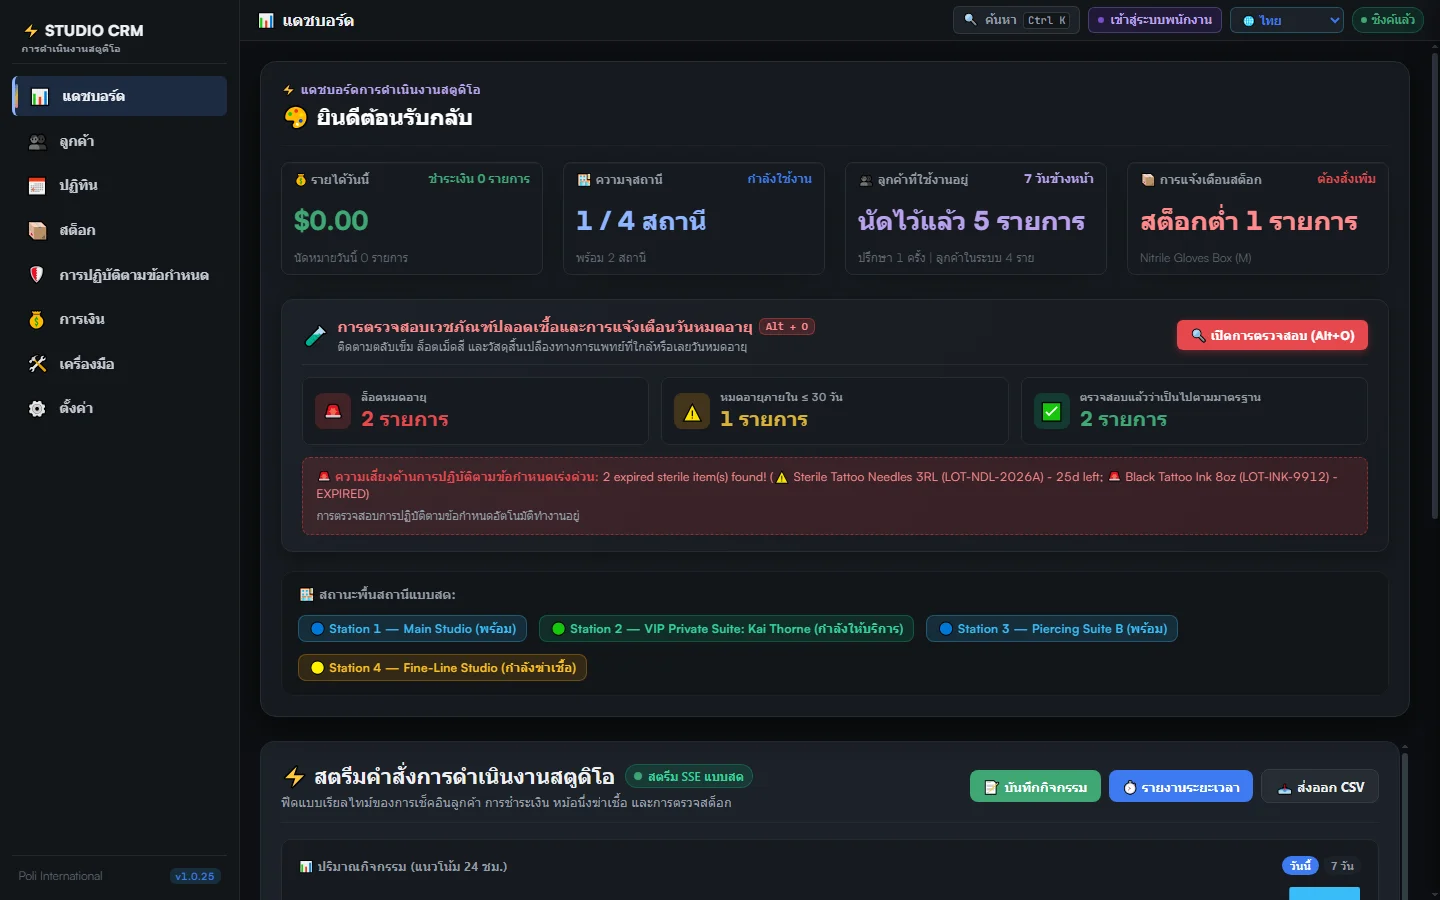
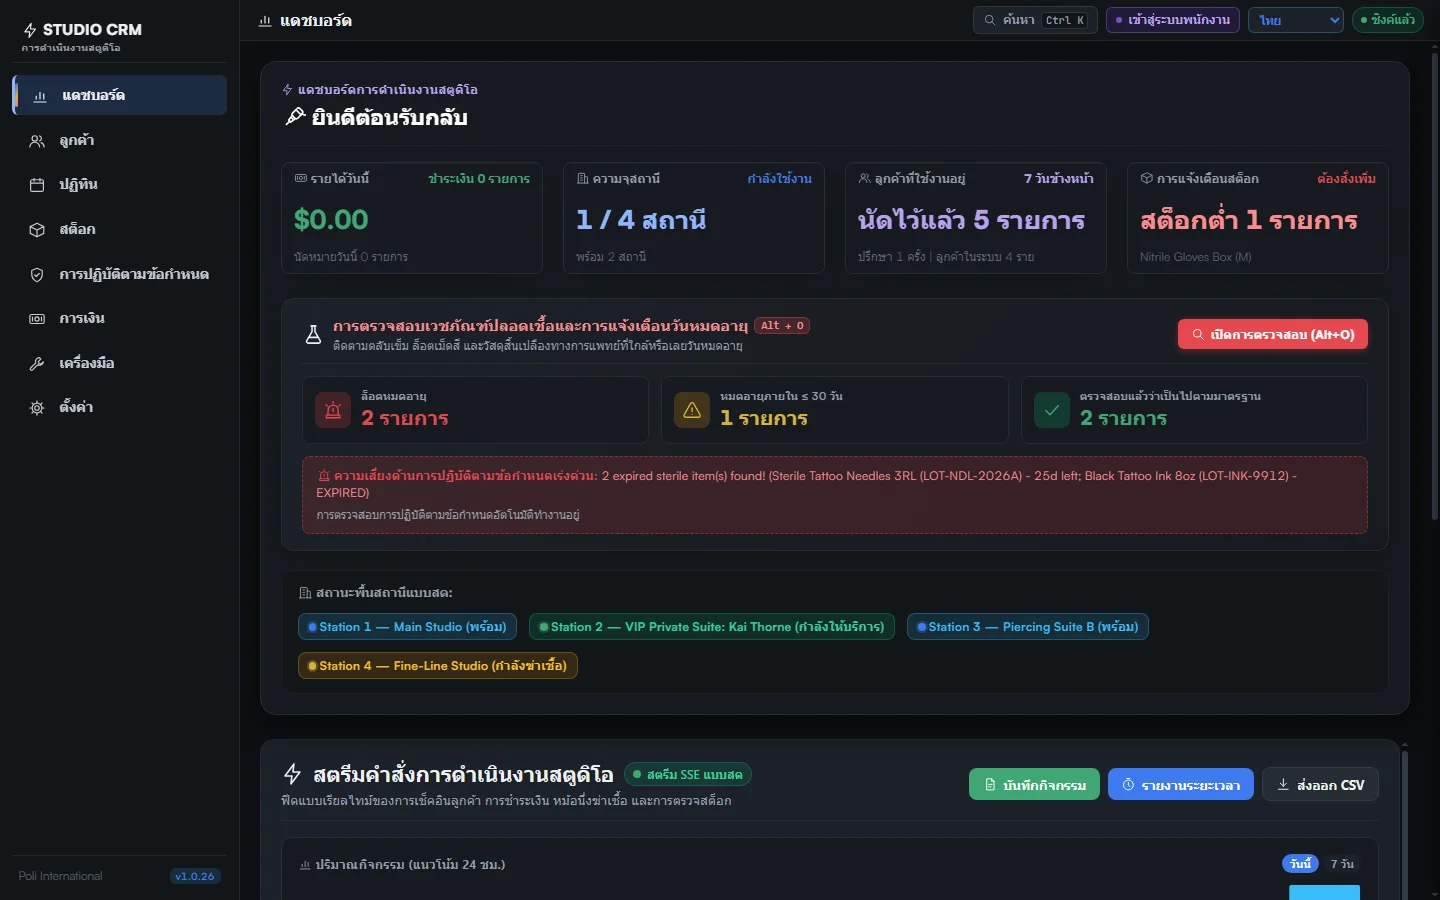
v1.0.26: Anodised Titanium, the new look of the whole CRM
- Colours, fonts and motion (#37), drawn icons instead of emojis (#38), the five tool
  families on the Tools screen and in each tool window (#39). Dark only.
- Guides in 8 languages: a paragraph on the tool families (rebuilt).
- Version 1.0.26, uiDesign 3, screenshots retaken, TECHNICAL_DOCUMENTATION version history.

diff --git a/public/guide/th.html b/public/guide/th.html
@@ -69,6 +69,7 @@ code{background:#1E293B;padding:1px 5px;border-radius:4px;font-size:0.9em}strong
 <p><strong>รายการตรวจสอบก่อนปิดร้าน</strong> บันทึกว่ารายการใดทำแล้ว หัวหน้างานที่รับผิดชอบ หมายเลขรอบของหม้อนึ่งฆ่าเชื้อ และบันทึกของคุณ <strong>คลังข้อมูลหม้อนึ่งฆ่าเชื้อ</strong> แสดงรายการรอบการฆ่าเชื้อ และแดชบอร์ดจะเตือนเกี่ยวกับสต็อกที่หมดอายุแล้ว ข้อมูลเหล่านี้เป็นบันทึกของคุณเอง ให้ตรวจสอบกฎของหน่วยงานสาธารณสุขในพื้นที่ของคุณว่าต้องเก็บอะไรไว้บ้าง</p>
 <h2>เครื่องมือ Poli</h2>
 <p>หน้าจอ <strong>เครื่องมือ</strong> เปิดเครื่องมือของ Poli International (ตารางการดูแลหลังทำ ตัวสร้างแบบฟอร์มยินยอม ตัวแปลงเกจ ตัวประเมินราคา และอื่น ๆ) ภายใน CRM</p>
+<p>การ์ดเครื่องมือแต่ละใบมีแถบสีที่ด้านบน และหน้าต่างของเครื่องมือมีแถบเดียวกันที่แถบชื่อ เพื่อให้รู้กลุ่มของเครื่องมือได้ทันที: เทปตัวบ่งชี้ลายทางสำหรับการฆ่าเชื้อและการปฏิบัติตามข้อกำหนด สีของไทเทเนียมอโนไดซ์สำหรับการเจาะและเครื่องประดับ สีม่วงสเตนซิลสำหรับรอยสักและหมึก เส้นแบบฟอร์มสำหรับลูกค้าและสุขภาพ และกระดาษบัญชีสำหรับธุรกิจของสตูดิโอ</p>
 <p>กลุ่ม <strong>เครื่องมือตรวจกฎระเบียบหมึกสัก</strong> มีเครื่องมือหนึ่งตัวต่อหนึ่งภูมิภาค: สหรัฐอเมริกา (MoCRA และ California Proposition 65) ยุโรป (REACH) และเอเชียตะวันออกเฉียงใต้ (ประเทศไทย มีภาษาไทยด้วย) แต่ละตัวตอบได้เฉพาะภูมิภาคของตนเท่านั้น</p>
 <h2>การสำรองข้อมูล</h2>
 <p>ข้อมูลทั้งหมดจะถูกจัดเก็บใน <code>data/studio_crm.sqlite</code> (หรือพาธที่กำหนดไว้ใน <code>SQLITE_DB_PATH</code>) คัดลอกไฟล์นั้นเพื่อสำรองข้อมูลของสตูดิโอ ปุ่มสแนปช็อตยังเขียนสำเนาไปยัง <code>storage/backups/</code> ด้วย นอกจากนี้ CRM จะบันทึกสำเนาไว้ที่นั่นทุกวันและเก็บไว้ 30 วันล่าสุด ใน <strong>การตั้งค่า</strong> &gt; <strong>สำรองฐานข้อมูล</strong> คุณสามารถให้คัดลอกข้อมูลสำรองทุกชุดไปยังโฟลเดอร์ที่สอง (แฟลชไดรฟ์ USB ดิสก์อื่น หรือโฟลเดอร์ Google Drive, OneDrive หรือ Dropbox) เพื่อไม่ให้ดิสก์เสียหรือคอมพิวเตอร์ถูกขโมยทำให้สำเนาทั้งหมดหายไป</p>

diff --git a/public/guide/es.html b/public/guide/es.html
@@ -69,6 +69,7 @@ code{background:#1E293B;padding:1px 5px;border-radius:4px;font-size:0.9em}strong
 <p>La <strong>lista de cierre</strong> registra qué tareas se hicieron, el supervisor, el número de ciclo del autoclave y sus notas. El <strong>Registro del autoclave</strong> enumera los ciclos de esterilización, y el panel principal avisa sobre el stock pasado su fecha de caducidad. Estos son sus propios registros: consulte las normas de su autoridad sanitaria local sobre lo que debe conservar.</p>
 <h2>Herramientas Poli</h2>
 <p>La pantalla <strong>Herramientas</strong> abre las herramientas de Poli International (calendarios de cuidados posteriores, creador de formularios de consentimiento, convertidor de calibre, estimador de precios y más) dentro del CRM.</p>
+<p>Cada tarjeta de herramienta lleva una banda de color en la parte superior, y la ventana de la herramienta la misma banda en su barra de título, para reconocer su familia de un vistazo: cinta indicadora a rayas para esterilización y cumplimiento, los colores del titanio anodizado para piercing y joyería, violeta de stencil para tatuaje y tinta, líneas de formulario para clientes y salud, y papel de libro contable para la gestión del estudio.</p>
 <p>El grupo <strong>Comprobadores de normativa de tintas</strong> tiene un comprobador por región: EE. UU. (MoCRA y Proposición 65 de California), Europa (REACH) y Sudeste Asiático (Tailandia, también en tailandés). Cada uno responde solo por su propia región.</p>
 <h2>Copias de seguridad</h2>
 <p>Todo se almacena en <code>data/studio_crm.sqlite</code> (o en la ruta definida en <code>SQLITE_DB_PATH</code>). Copie ese archivo para hacer una copia de seguridad del estudio. El botón de instantánea también escribe una copia en <code>storage/backups/</code>. El CRM también guarda allí una copia cada día y conserva los últimos 30 días. En <strong>Ajustes</strong>, <strong>Copia de seguridad de la base de datos</strong>, puede copiar además cada copia en una segunda carpeta (una memoria USB, otro disco o una carpeta de Google Drive, OneDrive o Dropbox), para que un disco averiado o un ordenador robado no se lleve todas las copias.</p>

diff --git a/public/guide/fr.html b/public/guide/fr.html
@@ -69,6 +69,7 @@ code{background:#1E293B;padding:1px 5px;border-radius:4px;font-size:0.9em}strong
 <p>La <strong>liste de clôture</strong> enregistre les tâches effectuées, le responsable, le numéro de cycle d'autoclave et vos notes. Le <strong>Registre d'autoclave</strong> répertorie les cycles de stérilisation, et le tableau de bord signale les stocks dépassant leur date d'expiration. Ce sont vos propres registres : vérifiez les règles de votre autorité sanitaire locale quant à ce que vous devez conserver.</p>
 <h2>Outils Poli</h2>
 <p>L'écran <strong>Outils</strong> ouvre les outils Poli International (calendriers de soins post-acte, créateur de formulaire de consentement, convertisseur de calibre, estimateur de prix et plus) à l'intérieur du CRM.</p>
+<p>Chaque carte d'outil porte une bande de couleur en haut, et la fenêtre de l'outil la même bande sur sa barre de titre, pour reconnaître sa famille d'un coup d'œil : ruban indicateur rayé pour la stérilisation et la conformité, couleurs du titane anodisé pour le piercing et les bijoux, violet de stencil pour le tatouage et l'encre, lignes de formulaire pour les clients et la santé, papier de registre pour la gestion du studio.</p>
 <p>Le groupe <strong>Vérificateurs de réglementation des encres</strong> compte un vérificateur par région : les États-Unis (MoCRA et Proposition 65 de Californie), l'Europe (REACH) et l'Asie du Sud-Est (Thaïlande, aussi en thaï). Chacun ne répond que pour sa propre région.</p>
 <h2>Sauvegardes</h2>
 <p>Tout est stocké dans <code>data/studio_crm.sqlite</code> (ou le chemin défini dans <code>SQLITE_DB_PATH</code>). Copiez ce fichier pour sauvegarder le studio. Le bouton d'instantané écrit aussi une copie dans <code>storage/backups/</code>. Le CRM y enregistre aussi une copie chaque jour et garde les 30 derniers jours. Dans <strong>Paramètres</strong>, <strong>Sauvegarde de la base de données</strong>, vous pouvez aussi copier chaque sauvegarde dans un second dossier (clé USB, autre disque, dossier Google Drive, OneDrive ou Dropbox) : un disque en panne ou un ordinateur volé n'emporte pas toutes les copies.</p>

diff --git a/public/guide/pt.html b/public/guide/pt.html
@@ -69,6 +69,7 @@ code{background:#1E293B;padding:1px 5px;border-radius:4px;font-size:0.9em}strong
 <p>A <strong>checklist de fecho</strong> regista quais os itens realizados, o supervisor, o número do ciclo do autoclave e as suas notas. O <strong>Registo do autoclave</strong> lista os ciclos de esterilização, e o Dashboard avisa sobre stock com a validade expirada. Estes são os seus próprios registos: consulte as regras da sua autoridade de saúde local sobre o que deve conservar.</p>
 <h2>Ferramentas Poli</h2>
 <p>O ecrã <strong>Ferramentas</strong> abre as ferramentas da Poli International (calendários de cuidados pós-procedimento, criador de formulários de consentimento, conversor de calibre, estimador de preços e mais) dentro do CRM.</p>
+<p>Cada cartão de ferramenta tem uma faixa colorida no topo, e a janela da ferramenta a mesma faixa na barra de título, para reconhecer a família à primeira vista: fita indicadora às riscas para esterilização e conformidade, as cores do titânio anodizado para piercing e joalharia, violeta de stencil para tatuagem e tinta, linhas de formulário para clientes e saúde, e papel de livro-razão para a gestão do estúdio.</p>
 <p>O grupo <strong>Verificadores de regulamentação de tintas</strong> tem um verificador por região: EUA (MoCRA e Proposição 65 da Califórnia), Europa (REACH) e Sudeste Asiático (Tailândia, também em tailandês). Cada um responde só pela sua região.</p>
 <h2>Cópias de segurança</h2>
 <p>Tudo é guardado em <code>data/studio_crm.sqlite</code> (ou no caminho definido em <code>SQLITE_DB_PATH</code>). Copie esse ficheiro para fazer uma cópia de segurança do estúdio. O botão de snapshot também escreve uma cópia em <code>storage/backups/</code>. O CRM também guarda lá uma cópia todos os dias e mantém os últimos 30 dias. Em <strong>Definições</strong>, <strong>Cópia de Segurança da Base de Dados</strong>, pode copiar também cada cópia para uma segunda pasta (pen USB, outro disco, pasta do Google Drive, OneDrive ou Dropbox), para que um disco avariado ou um computador roubado não leve todas as cópias.</p>

diff --git a/public/guide/de.html b/public/guide/de.html
@@ -69,6 +69,7 @@ code{background:#1E293B;padding:1px 5px;border-radius:4px;font-size:0.9em}strong
 <p>Die <strong>Abschluss-Checkliste</strong> erfasst, welche Punkte erledigt wurden, den Verantwortlichen, die Autoklav-Zyklusnummer und Ihre Notizen. Der <strong>Autoklav-Speicher</strong> listet Sterilisationszyklen auf, und das Dashboard warnt vor Lagerbestand nach Ablaufdatum. Dies sind Ihre eigenen Aufzeichnungen: Prüfen Sie die Vorschriften Ihrer lokalen Gesundheitsbehörde, was Sie aufbewahren müssen.</p>
 <h2>Poli-Tools</h2>
 <p>Der Bildschirm <strong>Werkzeuge</strong> öffnet die Poli-International-Tools (Nachsorgepläne, Einverständnisformular-Generator, Gauge-Umrechner, Preisschätzer und mehr) innerhalb des CRM.</p>
+<p>Jede Werkzeugkarte hat oben ein farbiges Band, und das Fenster des Werkzeugs trägt dasselbe Band in seiner Titelleiste, sodass Sie die Familie auf einen Blick erkennen: gestreiftes Indikatorband für Sterilisation und Compliance, die Farben von eloxiertem Titan für Piercing und Schmuck, Stencil-Violett für Tattoo und Farbe, Formularlinien für Kunden und Gesundheit, Kassenbuchpapier für das Studiogeschäft.</p>
 <p>Die Gruppe <strong>Prüfer für Farbvorschriften</strong> hat einen Prüfer je Region: USA (MoCRA und California Proposition 65), Europa (REACH) und Südostasien (Thailand, auch auf Thai). Jeder gilt nur für seine eigene Region.</p>
 <h2>Backups</h2>
 <p>Alles wird in <code>data/studio_crm.sqlite</code> gespeichert (oder im in <code>SQLITE_DB_PATH</code> festgelegten Pfad). Kopieren Sie diese Datei, um das Studio zu sichern. Die Snapshot-Schaltfläche schreibt außerdem eine Kopie nach <code>storage/backups/</code>. Das CRM speichert dort außerdem jeden Tag eine Kopie und behält die letzten 30 Tage. Unter <strong>Einstellungen</strong>, <strong>Datenbanksicherung</strong> können Sie jede Sicherung zusätzlich in einen zweiten Ordner kopieren lassen (USB-Stick, andere Festplatte, Google-Drive-, OneDrive- oder Dropbox-Ordner), damit eine defekte Festplatte oder ein gestohlener Computer nicht alle Kopien mitnimmt.</p>

diff --git a/public/guide/it.html b/public/guide/it.html
@@ -69,6 +69,7 @@ code{background:#1E293B;padding:1px 5px;border-radius:4px;font-size:0.9em}strong
 <p>La <strong>checklist di chiusura</strong> registra quali attività sono state svolte, il supervisore, il numero di ciclo dell'autoclave e le vostre note. Il <strong>Registro autoclave</strong> elenca i cicli di sterilizzazione, e la Dashboard avvisa sulle scorte oltre la data di scadenza. Questi sono i vostri registri: verificate le regole della vostra autorità sanitaria locale su cosa dovete conservare.</p>
 <h2>Strumenti Poli</h2>
 <p>La schermata <strong>Strumenti</strong> apre gli strumenti Poli International (calendari di aftercare, generatore di moduli di consenso, convertitore di calibro, preventivatore prezzi e altro) all'interno del CRM.</p>
+<p>Ogni scheda strumento ha una fascia colorata in alto, e la finestra dello strumento la stessa fascia nella barra del titolo, così la famiglia si riconosce a colpo d'occhio: nastro indicatore a strisce per sterilizzazione e conformità, i colori del titanio anodizzato per piercing e gioielli, viola stencil per tatuaggio e inchiostro, righe da modulo per clienti e salute, carta da registro per la gestione dello studio.</p>
 <p>Il gruppo <strong>Verifiche normative sugli inchiostri</strong> ha una verifica per regione: USA (MoCRA e Proposition 65 della California), Europa (REACH) e Sud-est asiatico (Thailandia, anche in thailandese). Ognuna vale solo per la propria regione.</p>
 <h2>Backup</h2>
 <p>Tutto è memorizzato in <code>data/studio_crm.sqlite</code> (o nel percorso impostato in <code>SQLITE_DB_PATH</code>). Copiate quel file per fare il backup dello studio. Il pulsante snapshot scrive anche una copia in <code>storage/backups/</code>. Il CRM vi salva anche una copia ogni giorno e conserva gli ultimi 30 giorni. In <strong>Impostazioni</strong>, <strong>Backup Database</strong>, potete copiare ogni backup anche in una seconda cartella (chiavetta USB, altro disco, cartella Google Drive, OneDrive o Dropbox), così un disco guasto o un computer rubato non porta via tutte le copie.</p>

diff --git a/public/guide/nl.html b/public/guide/nl.html
@@ -69,6 +69,7 @@ code{background:#1E293B;padding:1px 5px;border-radius:4px;font-size:0.9em}strong
 <p>De <strong>afsluitchecklist</strong> registreert welke taken zijn uitgevoerd, de leidinggevende, het autoclaafcyclusnummer en uw notities. Het <strong>Autoclaafregister</strong> toont sterilisatiecycli, en het dashboard waarschuwt voor voorraad die de vervaldatum heeft overschreden. Dit zijn uw eigen dossiers: controleer de regels van uw lokale gezondheidsautoriteit over wat u moet bewaren.</p>
 <h2>Poli-tools</h2>
 <p>Het scherm <strong>Tools</strong> opent de Poli International-tools (nazorgschema's, generator voor toestemmingsformulieren, gauge-omrekenaar, prijsschatter en meer) binnen de CRM.</p>
+<p>Elke toolkaart heeft bovenaan een gekleurde band, en het venster van de tool dezelfde band in de titelbalk, zodat u de familie in één oogopslag herkent: gestreepte indicatortape voor sterilisatie en naleving, de kleuren van geanodiseerd titanium voor piercing en sieraden, stencilpaars voor tattoo en inkt, formulierlijnen voor klanten en gezondheid, en kasboekpapier voor de studiozaken.</p>
 <p>De groep <strong>Inktregelgeving-checkers</strong> heeft één checker per regio: de VS (MoCRA en California Proposition 65), Europa (REACH) en Zuidoost-Azië (Thailand, ook in het Thai). Elke checker geldt alleen voor zijn eigen regio.</p>
 <h2>Backups</h2>
 <p>Alles wordt opgeslagen in <code>data/studio_crm.sqlite</code> (of het pad ingesteld in <code>SQLITE_DB_PATH</code>). Kopieer dat bestand om de studio te backuppen. De snapshotknop schrijft ook een kopie naar <code>storage/backups/</code>. Het CRM bewaart daar ook elke dag een kopie en houdt de laatste 30 dagen. In <strong>Instellingen</strong>, <strong>Database-back-up</strong> kunt u elke back-up ook naar een tweede map laten kopiëren (USB-stick, andere schijf, Google Drive-, OneDrive- of Dropbox-map), zodat een kapotte schijf of een gestolen computer niet alle kopieën meeneemt.</p>

diff --git a/public/guide/en.html b/public/guide/en.html
@@ -69,6 +69,7 @@ code{background:#1E293B;padding:1px 5px;border-radius:4px;font-size:0.9em}strong
 <p>The <strong>closing checklist</strong> records which items were done, the supervisor, the autoclave cycle number and your notes. The <strong>Autoclave Vault</strong> lists sterilisation cycle records, and the Dashboard warns about stock past its expiry date. These are your own records: check your local health authority's rules for what you must keep.</p>
 <h2>Poli tools</h2>
 <p>The <strong>Tools</strong> screen opens the Poli International tools (aftercare schedules, consent form builder, gauge converter, price estimator and more) inside the CRM.</p>
+<p>Each tool card has a coloured band along its top, and the tool's window the same band on its title bar, so you can tell its family at a glance: striped indicator tape for sterilisation and compliance, the anodised colours for piercing and jewelry, stencil violet for tattoo and ink, form lines for clients and health, and ledger paper for the studio business.</p>
 <p>The <strong>Ink regulation checkers</strong> group has one checker for each region: the USA (MoCRA and California Proposition 65), Europe (REACH) and Southeast Asia (Thailand, in Thai too). Each answers for its own region only.</p>
 <h2>Backups</h2>
 <p>Everything is stored in <code>data/studio_crm.sqlite</code> (or the path set in <code>SQLITE_DB_PATH</code>). Copy that file to back up the studio. <strong>Back up now</strong> in <strong>Settings</strong> also writes a copy to <code>storage/backups/</code>. The CRM also saves a copy there every day and keeps the last 30 days. In <strong>Settings</strong>, <strong>Database Backup</strong>, <strong>Also copy every backup to</strong> a second folder (a USB stick, another disk, or a Google Drive, OneDrive or Dropbox folder) so a dead disk or a stolen computer does not take every copy with it.</p>

diff --git a/TECHNICAL_DOCUMENTATION.md b/TECHNICAL_DOCUMENTATION.md
@@ -433,6 +433,14 @@ The application shell and all logic are plain HTML, CSS and JavaScript. The only
 
 ## Version History
 
+### 1.0.26
+
+**Anodised Titanium**, the new look of the whole CRM (uiDesign 3; phases A to C, PRs #37, #38, #39):
+- Colours: graphite base, one blue accent, status colours taken from real anodising (bronze, purple, blue, gold, rose, green); health alerts stay a clear red. Tokens `--ti-*` in `public/css/04-titanium.css`, written as `var(--ti-x, #original)` so prints, PDFs and the kiosk keep paper colours. Satoshi and JetBrains Mono bundled. Dark only: the theme switch in the top bar and its keyboard shortcut are gone.
+- Icons: the emojis in the CRM screens are one drawn SVG sprite (87 icons; tattoo machine, cartridge, needle, captive ring, autoclave pouch, gloves, consent sheet and pen among them); status dots are CSS dots. Text that cannot hold an icon (toasts, dialogs, options, PDF labels) lost its emoji and kept its words; the phrase dictionaries in 7 languages and `i18n.json` changed with it, so translations still match.
+- Tool families: each tool card and each tool window's title bar carries its family (Sterile Field, Anodised Titanium, Stencil, Consent Paper, Front Desk Ledger). The tool files in `public/tools/` are unchanged and keep their own look on the website.
+- Guides (8 languages): a paragraph on the tool families; the Aftercare sheet button named without its emoji. Screenshots retaken.
+
 ### 1.0.25
 
 - **Health Alerts** (Clients, Henry's screenshots of 2026-10-15): `renderClientDirectoryModal` (`public/app-features.js`) ignored the search box and both tick boxes and showed no health detail. The search now runs as you type (name, phone, email, allergy, condition, artist), **Latex Allergy** shows the latex allergies, **Medical Flags** anyone with an allergy or a condition, flagged clients first with their allergy and condition, names escaped, and "No client matches" when nothing does. A value of "none", "n/a" or "no" is not a flag.

diff --git a/docs/user-guide/es.md b/docs/user-guide/es.md
@@ -105,6 +105,8 @@ La **lista de cierre** registra qué tareas se hicieron, el supervisor, el núme
 
 La pantalla **Herramientas** abre las herramientas de Poli International (calendarios de cuidados posteriores, creador de formularios de consentimiento, convertidor de calibre, estimador de precios y más) dentro del CRM.
 
+Cada tarjeta de herramienta lleva una banda de color en la parte superior, y la ventana de la herramienta la misma banda en su barra de título, para reconocer su familia de un vistazo: cinta indicadora a rayas para esterilización y cumplimiento, los colores del titanio anodizado para piercing y joyería, violeta de stencil para tatuaje y tinta, líneas de formulario para clientes y salud, y papel de libro contable para la gestión del estudio.
+
 El grupo **Comprobadores de normativa de tintas** tiene un comprobador por región: EE. UU. (MoCRA y Proposición 65 de California), Europa (REACH) y Sudeste Asiático (Tailandia, también en tailandés). Cada uno responde solo por su propia región.
 
 ## Copias de seguridad

diff --git a/docs/user-guide/fr.md b/docs/user-guide/fr.md
@@ -105,6 +105,8 @@ La **liste de clôture** enregistre les tâches effectuées, le responsable, le 
 
 L'écran **Outils** ouvre les outils Poli International (calendriers de soins post-acte, créateur de formulaire de consentement, convertisseur de calibre, estimateur de prix et plus) à l'intérieur du CRM.
 
+Chaque carte d'outil porte une bande de couleur en haut, et la fenêtre de l'outil la même bande sur sa barre de titre, pour reconnaître sa famille d'un coup d'œil : ruban indicateur rayé pour la stérilisation et la conformité, couleurs du titane anodisé pour le piercing et les bijoux, violet de stencil pour le tatouage et l'encre, lignes de formulaire pour les clients et la santé, papier de registre pour la gestion du studio.
+
 Le groupe **Vérificateurs de réglementation des encres** compte un vérificateur par région : les États-Unis (MoCRA et Proposition 65 de Californie), l'Europe (REACH) et l'Asie du Sud-Est (Thaïlande, aussi en thaï). Chacun ne répond que pour sa propre région.
 
 ## Sauvegardes
